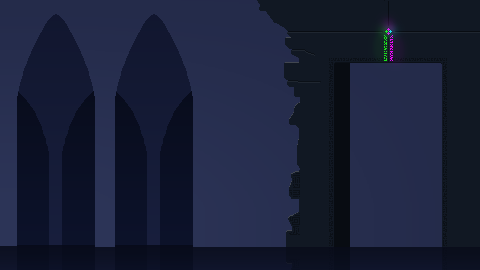
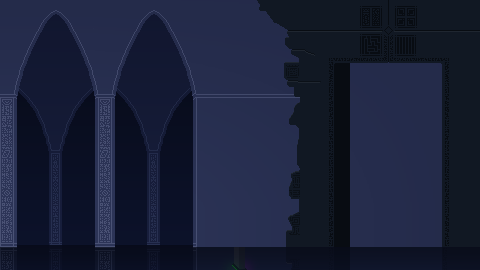
Animations and progression

diff --git a/src/scott.proto/js/prototype.js b/src/scott.proto/js/prototype.js
@@ -4,6 +4,9 @@ window.onload = function () {
   ctx.imageSmoothingEnabled = false;
 
   var background = new Image();
+  var bgGlow = new Image();
+  var glowClip;
+  var points;
   var w = window.innerWidth;
   var h = window.innerHeight;
 
@@ -24,7 +27,7 @@ window.onload = function () {
   var priest = function() {
     this.sprite = new Image()
     this.sprite.src = "img/priest_Chanting.png";
-    this.locX = Math.floor(Math.random()*180);
+    this.locX = Math.floor(Math.random()*180) - 20;
     this.locY = 197;
     this.isJumping = false;
   }
@@ -35,14 +38,34 @@ window.onload = function () {
     locY: 197
   }
 
+  var symbolGlow = function(img) {
+    this.sprite = new Image();
+    this.sprite.src = img;
+  }
+
+  var symbols = [];
+
+  var symbolImgs = [
+    "img/ritualChamber_symbols_1.png",
+    "img/ritualChamber_symbols_2.png",
+    "img/ritualChamber_symbols_3.png",
+    "img/ritualChamber_symbols_4.png"];
+
   function init() {
     player.sprite.src = "img/player_Chanting.png";
     player.eyes.sprite.src = "img/player_eyes.png";
     dias.sprite.src = "img/dias.png";
     background.src = "img/ritualChamber.png";
+    bgGlow.src = "img/ritualChamber_glow.png";
+    glowClip = 0;
+    points = 0;
 
     for (i = 0; i < 20; i++) {
       priests[i] = new priest();
+    }
+
+    for (i = 0; i < symbolImgs.length; i++) {
+      symbols[i] = new symbolGlow(symbolImgs[i]);
     }
 
     ctx.scale(3,3);
@@ -70,6 +93,30 @@ window.onload = function () {
         ctx.drawImage(priests[i].sprite, priests[i].locX, priests[i].locY);
         priests[i].isJumping = false;
       }
+    }
+
+    srcY = 246 - glowClip;
+    srcH = 270 - srcY;
+    ctx.drawImage(bgGlow, 0, srcY, 480, srcH, 0, srcY, 480, srcH);
+
+    if (glowClip < 270) {
+      glowClip += 4;
+    } else if (glowClip >= 270) {
+        if (points < 4) {
+          glowClip = 0;
+          points += 1;
+        }
+    }
+
+    if (points > 0) {
+      for (i = 0; i < points; i++) {
+        ctx.drawImage(symbols[i].sprite, 0, 0);
+      }
+    }
+
+    if (points >= 4) {
+      background.src = "img/ritualChamber_gateOpen.png";
+      player.sprite.src = "img/player_Staff.png";
     }
 
     // if (!player.isJumping) {
